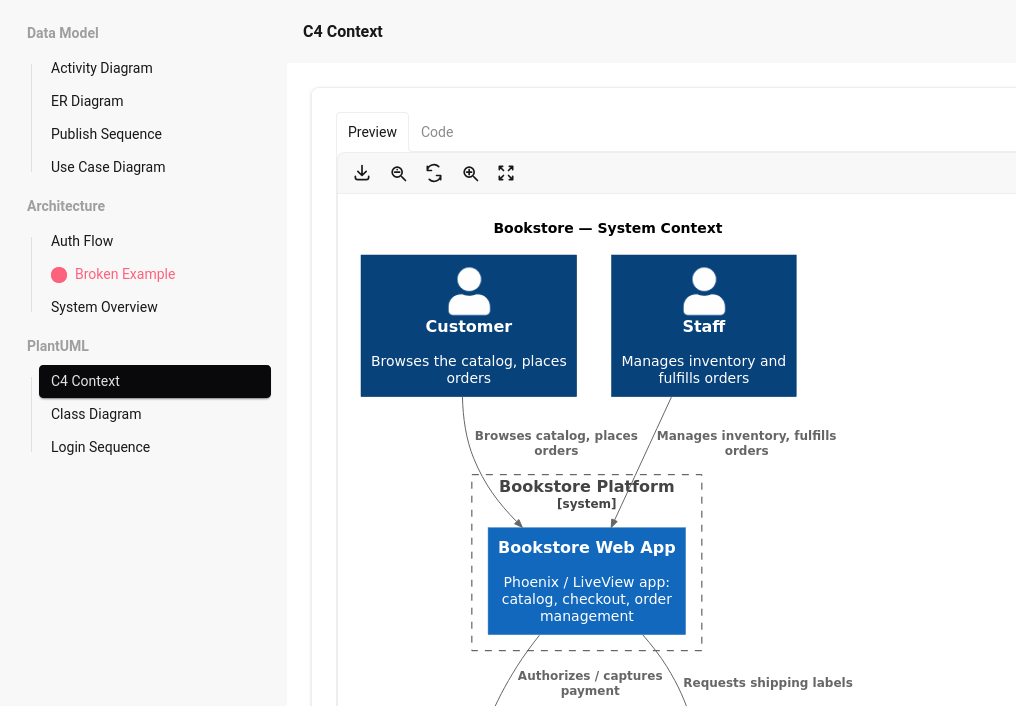
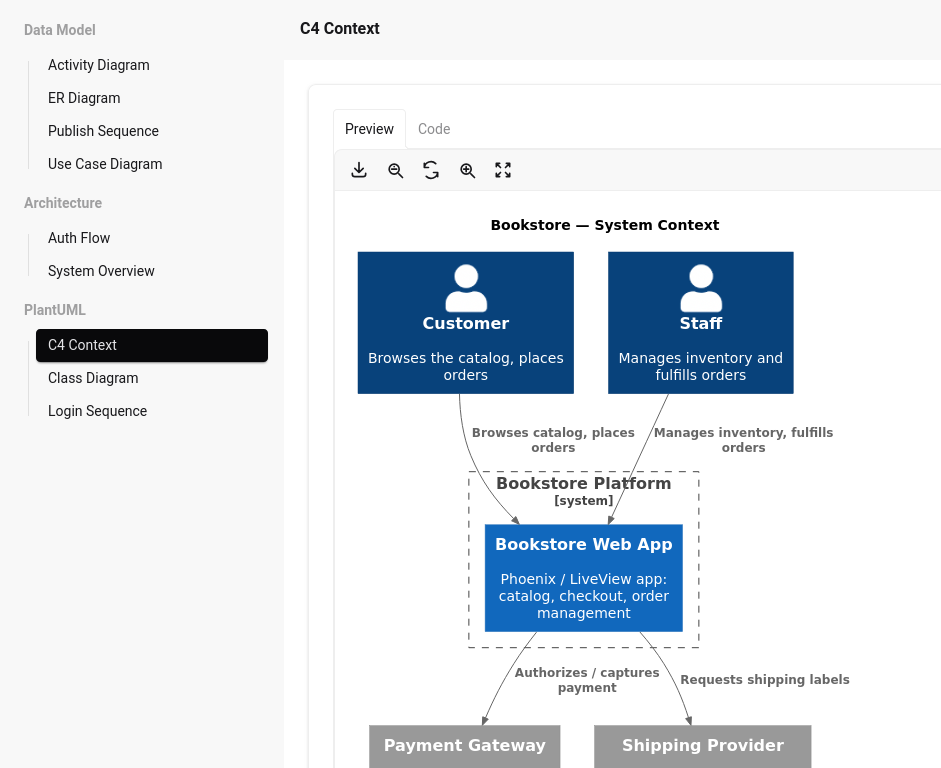
docs update

diff --git a/CLAUDE.md b/CLAUDE.md
@@ -6,7 +6,7 @@ This file provides guidance to Claude Code (claude.ai/code) when working with co
 
 PhoenixDiagrams — an Elixir/Phoenix LiveView library that embeds a Mermaid/PlantUML diagram browser into a host Phoenix application. A host app mounts it via a router macro, PhoenixDiagrams scans a directory of `.exs` metadata files that each point at a `.mmd` (Mermaid) or `.puml` (PlantUML) source file, and renders them in a sidebar/detail LiveView with client-side rendering.
 
-`demo/` is a full Phoenix app used to exercise the library manually; it is a separate Mix project with its own `mix.exs` and dependencies (including Tailwind/esbuild asset pipeline), not part of the `phoenix_diagrams` app itself.
+`demo/` is a full Phoenix app used to exercise the library manually; it is a separate Mix project with its own `mix.exs` and dependencies (including Tailwind/esbuild asset pipeline), not part of the `phoenix_diagrams` app itself. It is not exercised by `mix test`.
 
 ## Commands
 
@@ -18,38 +18,38 @@ Run these from the repo root (they operate on the `phoenix_diagrams` library, no
 - Lint: `mix credo --strict`
 - Full precommit check (format, compile with warnings-as-errors, credo --strict, test): `mix precommit`
 
-Always run `mix precommit` before considering a change complete — it's the defined alias for this repo's full check.
+Always run `mix precommit` before considering a change complete.
 
-The `demo/` app has its own independent toolchain (`cd demo && mix phx.server`, etc.) for manually verifying UI changes in a real Phoenix app; it is not exercised by `mix test` at the root.
+The `demo/` app has its own independent toolchain (`cd demo && mix phx.server`) for manually verifying UI changes in a real Phoenix app.
 
 ## Architecture
 
-- `lib/phoenix_diagrams/router.ex` — `live_phoenix_diagrams/2` macro. Host apps `import PhoenixDiagrams.Router` and call `live_phoenix_diagrams "/some/path", diagrams_path: "priv/diagrams"` inside a router `scope`, which mounts `PhoenixDiagrams.DiagramLive` at `"/"` under that path. `:diagrams_path` is required — the macro raises `ArgumentError` at compile time if it's missing; there is no default and no application-config fallback. The path is threaded through `live_session`'s `session:` map (not `Application.get_env`) so it reaches the LiveView via the session, not process/app-wide config.
-- `lib/phoenix_diagrams/diagram_live.ex` — the LiveView itself. On mount it reads `diagrams_path` out of the session (set by the router macro above), calls `PhoenixDiagrams.Loader.scan/1` against it, and assigns `entries`/`groups`/`selected`/`diagrams_path`; the `handle_event("select", ...)` clause swaps `selected` on sidebar clicks. The actual markup is delegated to `PhoenixDiagrams.Components.Layout`.
-- `lib/phoenix_diagrams/components/` — `Phoenix.Component`-based view layer split out of `DiagramLive`: `Layout` is the outer shell (inlines the compiled `app.css` via `Phoenix.HTML.raw`, embeds the initial dark/light theme script, composes the other three), `Navbar` (theme toggle), `Sidebar` (grouped entry list, drives the `select` event), and `Detail` (renders the selected entry's source via a `phx-hook` chosen from `entry.type` — `"PhoenixDiagramsMermaid"` or `"PhoenixDiagramsPlantuml"` — with `phx-update="ignore"` since the hook owns that DOM). All are `@moduledoc false` — they're internal to the LiveView, not a public API.
-- `lib/phoenix_diagrams/loader.ex` — scans `<path>/**/*.exs` files. Each `.exs` file is expected to `Code.eval_file` into a keyword list with `:group`, `:name`, and `:source` (a path to a `.mmd` or `.puml` file — the extension determines `entry.type`, `:mermaid` or `:plantuml`; any other extension becomes an error entry). Loader returns a list of entry maps; malformed/missing-key/unreadable/unsupported-extension files become error entries (`%{error: ...}`) rather than raising, and `DiagramLive` renders those inline instead of crashing. This is the layer to touch when changing the diagram-definition file format.
-- `priv/static/phoenix_diagrams/` — a self-contained npm project bundling `mermaid` (plus its dependencies like `cytoscape`, `dagre-d3-es`, `d3`, `katex`), `@plantuml/core` (a TeaVM-compiled build of PlantUML that renders entirely client-side, no Java/server), and `mermaid_hook.js`/`plantuml_hook.js`, the sources for the `PhoenixDiagramsMermaid`/`PhoenixDiagramsPlantuml` phx-hooks that a host app's asset pipeline needs to pick up.
-- Test setup (`test/support/`): `PhoenixDiagrams.TestRouter` and `PhoenixDiagrams.TestEndpoint` stand in for a host Phoenix app so the router macro and LiveView can be exercised via `Phoenix.LiveViewTest` without a real consuming application. `test/support/fixtures/phoenix_diagrams/` holds fixture diagram directories (`valid`, `mixed`, `missing_key`, `missing_source`, `eval_error`, `live_view`) exercising the Loader's success/error paths — add new fixture subdirectories there rather than inline `.exs`/`.mmd` files in test bodies.
+- `lib/phoenix_diagrams/router.ex` — `live_phoenix_diagrams/2` macro. Host apps call `live_phoenix_diagrams "/some/path", diagrams_path: "priv/diagrams"` inside a router `scope`, mounting `PhoenixDiagrams.DiagramLive` at `"/"` under that path. `:diagrams_path` is required — raises `ArgumentError` at compile time if missing, no default/app-config fallback — and is threaded through `live_session`'s `session:` map, not `Application.get_env`.
+- `lib/phoenix_diagrams/diagram_live.ex` — the LiveView. On mount reads `diagrams_path` from the session, calls `PhoenixDiagrams.Loader.scan/1`, and assigns `entries`/`groups`/`selected`/`diagrams_path`; `handle_event("select", ...)` swaps `selected`. Markup is delegated to `PhoenixDiagrams.Components.Layout`.
+- `lib/phoenix_diagrams/components/` — `Phoenix.Component` view layer: `Layout` (outer shell, inlines compiled `app.css`, composes the rest), `Navbar` (theme toggle), `Sidebar` (grouped entry list, drives `select`), `Detail` (renders the selected entry via a `phx-hook` chosen from `entry.type` — `"PhoenixDiagramsMermaid"`/`"PhoenixDiagramsPlantuml"` — with `phx-update="ignore"`). All `@moduledoc false`, internal to the LiveView.
+- `lib/phoenix_diagrams/loader.ex` — scans `<path>/**/*.exs`, each `Code.eval_file`'d into a keyword list with `:group`, `:name`, `:source` (extension determines `entry.type`, `:mermaid`/`:plantuml`). Malformed/missing-key/unreadable/unsupported-extension files become error entries (`%{error: ...}`) rather than raising. Touch this when changing the diagram-definition file format.
+- `lib/phoenix_diagrams/root_layout.ex` — standalone HTML root layout `DiagramLive` renders under; bootstraps its own `LiveSocket` (fixed at `/live`), loading `phoenix.mjs`/`phoenix_live_view.esm.js` from the host's resolved deps via `Application.app_dir/2` plus the bundled hooks script. The host's own `app.js`/root layout/hooks registration is never involved.
+- `lib/phoenix_diagrams/asset_plug.ex` — serves `phoenix.mjs`, `phoenix_live_view.esm.js`, and `bundle.js` under `<mount>/phoenix-diagrams-assets/*` with `cache-control: immutable`, made safe by a `?v=<hash>` fingerprint (`asset_version/0`, SHA-256 over all three, cached in `:persistent_term`) that `RootLayout` appends to each URL — don't drop that query param without loosening the cache header.
+- `priv/static/phoenix_diagrams/` — self-contained npm project (gitignored `node_modules`/`package-lock.json`) bundling `mermaid` and `@plantuml/core` (TeaVM-compiled, client-side, no Java/server) via `mermaid_hook.js`/`plantuml_hook.js`. Only its `build/app.css` and `build/bundle.js` output is packaged/served — rebuild with `npm run build:css`/`npm run build:js` after editing sources.
+- Test setup (`test/support/`): `PhoenixDiagrams.TestRouter`/`TestEndpoint` stand in for a host app. `test/support/fixtures/phoenix_diagrams/` holds fixture diagram directories (`valid`, `mixed`, `missing_key`, `missing_source`, `eval_error`, `live_view`) for the Loader's success/error paths — add new fixtures there rather than inline `.exs`/`.mmd` in test bodies.
 
 ## Design Principles
 
-- **Self-contained, zero host-asset coupling.** PhoenixDiagrams must render and function correctly without the host app editing its own `app.css`/`app.js`. Styles are compiled here and inlined at render time; JS hooks are vendored here and only need one import line in the host's hooks list — never require host-side implementation code or a host-managed npm dependency.
-- **Never crash the host page on bad input.** Malformed diagram definitions (missing keys, unreadable files, eval errors) become error entries rendered inline (see `Loader`/`DiagramLive`), not exceptions — a broken `.exs` in one group must not take down the whole diagram browser.
-- **daisyUI for structure, not host theming.** Use daisyUI component classes (`drawer`, `menu`, `card`, `alert`, etc.) for layout/behavior; the library ships both light/dark daisyUI themes itself so it looks correct regardless of the host's own design system.
-- **Target WCAG 2.1 AA.** `DiagramLive` markup should carry proper ARIA (`aria-label`/`aria-current`/`role="status"`/`role="img"` for the rendered mermaid SVG, `aria-hidden` on decorative icons) — verify with `mix test` plus a manual pass in `demo/` for color contrast and focus visibility, which aren't checkable from markup alone.
+- **Self-contained, zero host-asset coupling.** Must render/function without the host editing its own `app.css`/`app.js`. Styles are compiled here and inlined; JS hooks are vendored and pre-bundled — no host-side implementation code or host-managed npm dependency.
+- **Never crash the host page on bad input.** Malformed diagram definitions become inline error entries, not exceptions.
+- **daisyUI for structure, not host theming.** The library ships its own light/dark daisyUI themes so it looks correct regardless of host design system.
+- **Target WCAG 2.1 AA.** Proper ARIA (`aria-label`/`aria-current`/`role="status"`/`role="img"`, `aria-hidden` on decorative icons); verify contrast/focus manually in `demo/` since that isn't checkable from markup alone.
 
 ## Gotchas
 
-- HEEx treats `<style>`/`<script>` as verbatim tags — `{@assign}` inside a literal `<style>...</style>` in template source is NOT interpolated. Emit the whole tag as one expression instead: `{Phoenix.HTML.raw("<style>" <> css <> "</style>")}`.
-- Module attributes (`@foo`) are not visible as `@foo` inside `~H` templates (that syntax reads assigns, not attributes) — wrap in a private function and call it, e.g. `{my_attr()}`.
-- Colocated hooks (`Phoenix.LiveView.ColocatedHook`) defined in this library don't work well for host consumption: the dependency's own `mix.exs` would need `compilers: [:phoenix_live_view] ++ Mix.compilers()` to generate a manifest, and even then the colocated build dir's `node_modules` symlinks to the *host* app's `assets/node_modules`, not this repo's vendored one — so a hook needing an npm package (e.g. mermaid) won't resolve it. This is now moot for host integration: hooks ship pre-bundled in `priv/static/phoenix_diagrams/build/bundle.js` (built via `npm run build:js`) and are served by `PhoenixDiagrams.AssetPlug` under `<mount>/phoenix-diagrams-assets/bundle.js` — no host `node_modules` resolution is ever needed, and the host never registers hooks itself (`PhoenixDiagrams.RootLayout` bootstraps its own `LiveSocket`).
-- `priv/static/phoenix_diagrams/` is a self-contained npm project (node_modules + package-lock.json gitignored) vendoring both `mermaid` and the Tailwind+daisyUI CSS build; compiled output goes to `priv/static/phoenix_diagrams/build/` (`app.css`, `bundle.js`), the only files the runtime and Hex package actually reference. Rebuild CSS with `npm run build:css` there after editing `input.css` or `DiagramLive`'s markup.
-- `phx-update="ignore"` only freezes an element's *children* from morphdom patching — the element's own attributes (e.g. `data-source`) still get updated on every LiveView patch. Don't assume JS-set attributes on an ignored element (or any element) survive re-renders unless nothing server-side ever re-renders it; reapply client-only state (e.g. a `data-theme` toggle) in the hook's `updated()` callback.
-- A parent hook's `updated()` and a child hook's `mounted()` can both fire within the same LiveView patch, in either order. If both can trigger the same async work (e.g. `mermaid.render()`), they can run concurrently against the same target id and corrupt the output. Serialize such calls through a promise queue on the hook instance rather than assuming one-at-a-time.
-- To manually verify a JS-hook-driven UI change, `curl`ing `demo/` only shows the server-rendered HTML before hooks run — use the chrome-devtools MCP tools (`new_page`/`click`/`take_screenshot`/`evaluate_script`) against a running `mix phx.server` to see actual post-hook DOM/rendering state.
-- `@plantuml/core`'s `viz-global.js` is a UMD/Emscripten build with an unreachable Node-only branch (`require("url")`) that esbuild still tries to statically resolve when bundled. This now only matters for PhoenixDiagrams's own `npm run build:js` (`priv/static/phoenix_diagrams/package.json` already passes `--external:url`) — host apps no longer bundle `@plantuml/core` themselves, so they don't need this flag.
-- `Plug.CSRFProtection` raises `InvalidCrossOriginRequestError` on a plain `GET` if the response content-type looks like JS/JSON and the request isn't XHR and CSRF protection isn't explicitly skipped — this trips even for a same-origin `<script type="module">` import fetched via `curl` (no `Sec-Fetch-*` headers) or through a host's `protect_from_forgery` pipeline. `PhoenixDiagrams.AssetPlug` must `put_private(:plug_skip_csrf_protection, true)` before sending its JS responses.
-- `@plantuml/core`'s `renderToString(lines, onSuccess, onError)` (used so the hook can set `innerHTML` itself, matching the Mermaid hook's shape) has no documented dark-mode option — only its `render(lines, targetId, {dark})` counterpart does. PlantUML diagrams currently always render light-mode; `PhoenixDiagramsMermaid` still themes correctly.
-- Before starting `mix phx.server` in `demo/` to manually verify a change, check `ss -tlnp | grep 4000` (or similar) first — a server the user already has running (possibly with a browser tab open) will conflict, and a Phoenix code-reloader `config.exs` reload error means an already-running server needs restarting, not just retrying.
-- `PhoenixDiagrams.AssetPlug` sets `cache-control: public, max-age=31536000, immutable` on its three JS routes — safe only because `PhoenixDiagrams.RootLayout` appends a `?v=<hash>` fingerprint (from `PhoenixDiagrams.AssetPlug.asset_version/0`, a SHA-256 over all three served files, computed once per BEAM run and cached in `:persistent_term`) to each script URL. Don't drop the `?v=` query param from a script `src` without also loosening the cache header — otherwise a host upgrading `phoenix_diagrams` (or `phoenix`/`phoenix_live_view`) won't see the new JS in already-cached browsers for up to a year.
-- `esbuild --minify` (identifier renaming, part of the combined `--minify` flag) corrupts `@plantuml/core`'s TeaVM-compiled output when bundling `priv/static/phoenix_diagrams/build/bundle.js`: the minifier's scope-hoisting renames collide with hand-written statement labels in that code, producing a bundle with a genuine JS syntax error (`Undefined label 'X'`) that fails to parse in the browser — so *every* hook silently fails to register, not just PlantUML's. Verify any rebuilt `bundle.js` with `node --input-type=module --check < bundle.js` before committing. `package.json`'s `build:js` script uses `--minify-whitespace` only (no `--minify-syntax`/`--minify-identifiers`) to avoid this.
+- HEEx treats `<style>`/`<script>` as verbatim tags — `{@assign}` inside a literal `<style>...</style>` is NOT interpolated. Emit the whole tag as one expression: `{Phoenix.HTML.raw("<style>" <> css <> "</style>")}`.
+- Module attributes (`@foo`) aren't visible inside `~H` templates (that syntax reads assigns) — wrap in a private function and call it, e.g. `{my_attr()}`.
+- Colocated hooks don't work for host consumption here (the colocated build dir's `node_modules` symlinks to the *host's* `assets/node_modules`, not this repo's vendored one) — moot since hooks ship pre-bundled via `AssetPlug` instead.
+- `phx-update="ignore"` only freezes an element's *children*, not its own attributes (e.g. `data-source`), which still get patched on re-render. Reapply client-only state (e.g. a `data-theme` toggle) in the hook's `updated()` callback.
+- A parent hook's `updated()` and a child hook's `mounted()` can both fire within the same patch, in either order. If both trigger the same async work (e.g. `mermaid.render()`) they can run concurrently against the same target id. Serialize through a promise queue on the hook instance.
+- To manually verify a JS-hook-driven UI change, `curl`ing `demo/` only shows pre-hook server-rendered HTML — use chrome-devtools MCP tools against a running `mix phx.server` instead.
+- `@plantuml/core`'s `viz-global.js` has an unreachable Node-only branch (`require("url")`) esbuild still tries to resolve — `build:js` already passes `--external:url`.
+- `Plug.CSRFProtection` raises on a plain `GET` if the response looks like JS/JSON and the request isn't XHR-flagged (trips on `<script type="module">` fetched via `curl` or a host's `protect_from_forgery`) — `AssetPlug` must `put_private(:plug_skip_csrf_protection, true)` before sending JS.
+- `@plantuml/core`'s `renderToString/3` (used to match the Mermaid hook's `innerHTML`-setting shape) has no dark-mode option — only `render/3` does. PlantUML diagrams always render light-mode; Mermaid still themes correctly.
+- Before `mix phx.server` in `demo/`, check `ss -tlnp | grep 4000` first — a server the user already has running will conflict, and a code-reloader `config.exs` reload error means it needs restarting, not just retrying.
+- `esbuild --minify` (identifier renaming) corrupts `@plantuml/core`'s TeaVM output when bundling `bundle.js` — produces a syntax error that silently breaks *every* hook, not just PlantUML's. `build:js` uses `--minify-whitespace` only. Verify any rebuilt bundle with `node --input-type=module --check < bundle.js` before committing.

diff --git a/usage-rules.md b/usage-rules.md
@@ -1,8 +1,6 @@
 ## PhoenixDiagrams usage
 
-PhoenixDiagrams embeds a Mermaid/PlantUML diagram browser into a host Phoenix app as a
-mountable LiveView. It scans a directory of `.exs` metadata files, each
-pointing at a `.mmd` or `.puml` source file, and renders them client-side.
+Embeds a Mermaid/PlantUML diagram browser into a host Phoenix app as a mountable LiveView. It scans a directory of `.exs` metadata files, each pointing at a `.mmd`/`.puml` source file, and renders them client-side.
 
 ### Mounting it
 
@@ -15,13 +13,9 @@ scope "/" do
 end
 ```
 
-Mounts `PhoenixDiagrams.DiagramLive` at `GET /diagrams`.
+Mounts `PhoenixDiagrams.DiagramLive` at `GET /diagrams`. `:diagrams_path` is required — raises `ArgumentError` at compile time if missing, no default/app-config fallback.
 
 ### Diagram source directory
-
-`:diagrams_path` is required — `live_phoenix_diagrams/2` raises `ArgumentError` at
-compile time if it's missing. There is no default and no application config
-fallback.
 
 Each entry is a `.exs` file, `Code.eval_file`'d into a keyword list:
 
@@ -33,28 +27,15 @@ Each entry is a `.exs` file, `Code.eval_file`'d into a keyword list:
 ]
 ```
 
-`:source` resolves relative to the `.exs` file's directory; its extension
-(`.mmd`/`.puml`) determines the diagram type. Any other extension, a missing
-key, an unreadable file, or an eval error becomes an inline error entry
-instead of crashing the host app.
+`:source` resolves relative to the `.exs` file's directory; its extension (`.mmd`/`.puml`) determines the diagram type. Any other extension, a missing key, an unreadable file, or an eval error becomes an inline error entry instead of crashing the host app.
 
 ### Zero host asset wiring
 
-`live_phoenix_diagrams` renders on its own standalone page with its own root layout
-and `LiveSocket` — the host's `app.js` never loads there. No changes to
-`app.js`/`assets/`/esbuild config, and no npm dependency on `mermaid` or
-`@plantuml/core`:
+`live_phoenix_diagrams` renders on its own standalone page with its own root layout and `LiveSocket` — the host's `app.js` never loads there. No changes to `app.js`/`assets/`/esbuild config, and no npm dependency on `mermaid` or `@plantuml/core`:
 
-- Rendering hooks ship pre-bundled in `priv/static/phoenix_diagrams/build/bundle.js`
-  with `mermaid`/`@plantuml/core` fully inlined.
-- `phoenix.mjs`/`phoenix_live_view.esm.js` are served from the host's own
-  resolved deps via `Application.app_dir/2` — no version skew.
-- All three are served by `PhoenixDiagrams.AssetPlug` under `<mount>/phoenix-diagrams-assets/*`
-  with a `?v=<hash>` cache-busting fingerprint, safe for long-lived
-  `cache-control: immutable`.
-- Styles are compiled into the library and inlined at render time — no
-  Tailwind/daisyUI content-glob changes needed on the host.
+- Rendering hooks ship pre-bundled in `priv/static/phoenix_diagrams/build/bundle.js`, with `mermaid`/`@plantuml/core` fully inlined.
+- `phoenix.mjs`/`phoenix_live_view.esm.js` are served from the host's own resolved deps via `Application.app_dir/2` — no version skew.
+- All three are served by `PhoenixDiagrams.AssetPlug` under `<mount>/phoenix-diagrams-assets/*` with a `?v=<hash>` cache-busting fingerprint, safe for long-lived `cache-control: immutable`.
+- Styles are compiled into the library and inlined at render time — no Tailwind/daisyUI content-glob changes needed on the host.
 
-The websocket path is fixed at `/live`, matching the standard
-`socket("/live", Phoenix.LiveView.Socket)` mount every Phoenix app already
-has, independent of where `live_phoenix_diagrams` itself is mounted.
+The websocket path is fixed at `/live`, matching the standard `socket("/live", Phoenix.LiveView.Socket)` mount every Phoenix app already has, independent of where `live_phoenix_diagrams` is mounted.

diff --git a/README.md b/README.md
@@ -1,22 +1,20 @@
 # PhoenixDiagrams
 
-Do you have Mermaid or PlantUML diagrams spread across your codebase? PhoenixDiagrams
-collects them into a simple catalog view inside your Phoenix app. You
-just point it to a directory of diagram definitions, and it does the rest.
-Everything is rendered on the client side.
+My diagrams were scattered across stale Confluence pages, Notion docs, and Slack threads — none of them matching what the code actually did. So I started using AI agents to generate diagrams straight from the codebase and deployed them somewhere my non-technical teammates could actually find: right inside the app itself, and version-controlled as part of the development flow (trunk-based/gitflow).
+
+PhoenixDiagrams gives your diagrams a home — a slick, searchable catalog embedded in your Phoenix app. Point it at a folder, and watch your Mermaid and PlantUML diagrams come to life, always reflecting the latest state of the system.
 
 ![PhoenixDiagrams screenshot](docs/screenshot.png)
 
-## Features
+## Why you'll like it
 
-- [x] Mermaid diagram rendering
-- [x] PlantUML rendering — no Java or PlantUML server required
-- [x] Pan and zoom on rendered diagrams
-- [x] Copy diagram source to clipboard
-- [x] Download rendered diagram as an image
-- [x] Dev-only live reload — editing a diagram file updates the view
+- 🎨 **Mermaid + PlantUML, rendered client-side** — no Java, no PlantUML server, no headaches
+- 🔍 **Pan and zoom** into every diagram
+- 📋 **Copy source** to clipboard in one click
+- 🖼 **Download** any diagram as an image
+- 🔄 **Live reload in dev** — save a diagram file, see it update instantly
 
-## Installation
+## Get started in 60 seconds
 
 ```elixir
 def deps do
@@ -26,12 +24,7 @@ def deps do
 end
 ```
 
-## Usage
-
-There are two steps to get started: mount the router, and then add some
-diagrams.
-
-### 1. Mount the router
+### 1. Mount it
 
 ```elixir
 defmodule MyAppWeb.Router do
@@ -45,14 +38,11 @@ defmodule MyAppWeb.Router do
 end
 ```
 
-This mounts `PhoenixDiagrams.DiagramLive` at `/diagrams`. Keep in mind that
-`:diagrams_path` is required. There is no default value.
+That's it — `PhoenixDiagrams.DiagramLive` is now live at `/diagrams`. (`:diagrams_path` is required — there's no default.)
 
-### 2. Add diagram definitions
+### 2. Give it something to show
 
-Now give PhoenixDiagrams something to show. It scans the directory you set in
-`:diagrams_path` for `.exs` files. Each file should evaluate to a keyword
-list, like this:
+Drop a `.exs` file next to your diagram source, and PhoenixDiagrams takes it from there:
 
 ```elixir
 # priv/phoenix_diagrams/backend/overview.exs
@@ -63,14 +53,16 @@ list, like this:
 ]
 ```
 
-`source` points to a `.mmd` (Mermaid) or `.puml` (PlantUML) file. That's all
-you need. Add as many `.exs` files as you like, group them however you want,
-and they will appear in the sidebar.
+`source` points to a `.mmd` (Mermaid) or `.puml` (PlantUML) file. Add as many `.exs` files as you want, group them however makes sense, and they'll show up in the sidebar — no build step, no config sync, no fuss.
 
-## Development
+## Hacking on it
 
 ```sh
 mix deps.get              # install deps
 mix precommit             # format + compile (warnings-as-errors) + credo + test
-cd demo && mix phx.server # try it in a real Phoenix app
+cd demo && mix phx.server  # kick the tires in a real Phoenix app
 ```
+
+## How to contribute
+
+Found a bug or have an idea? PRs are welcome. See [CONTRIBUTING.md](CONTRIBUTING.md) for the full rundown on setup, testing, and what we look for in a pull request.
